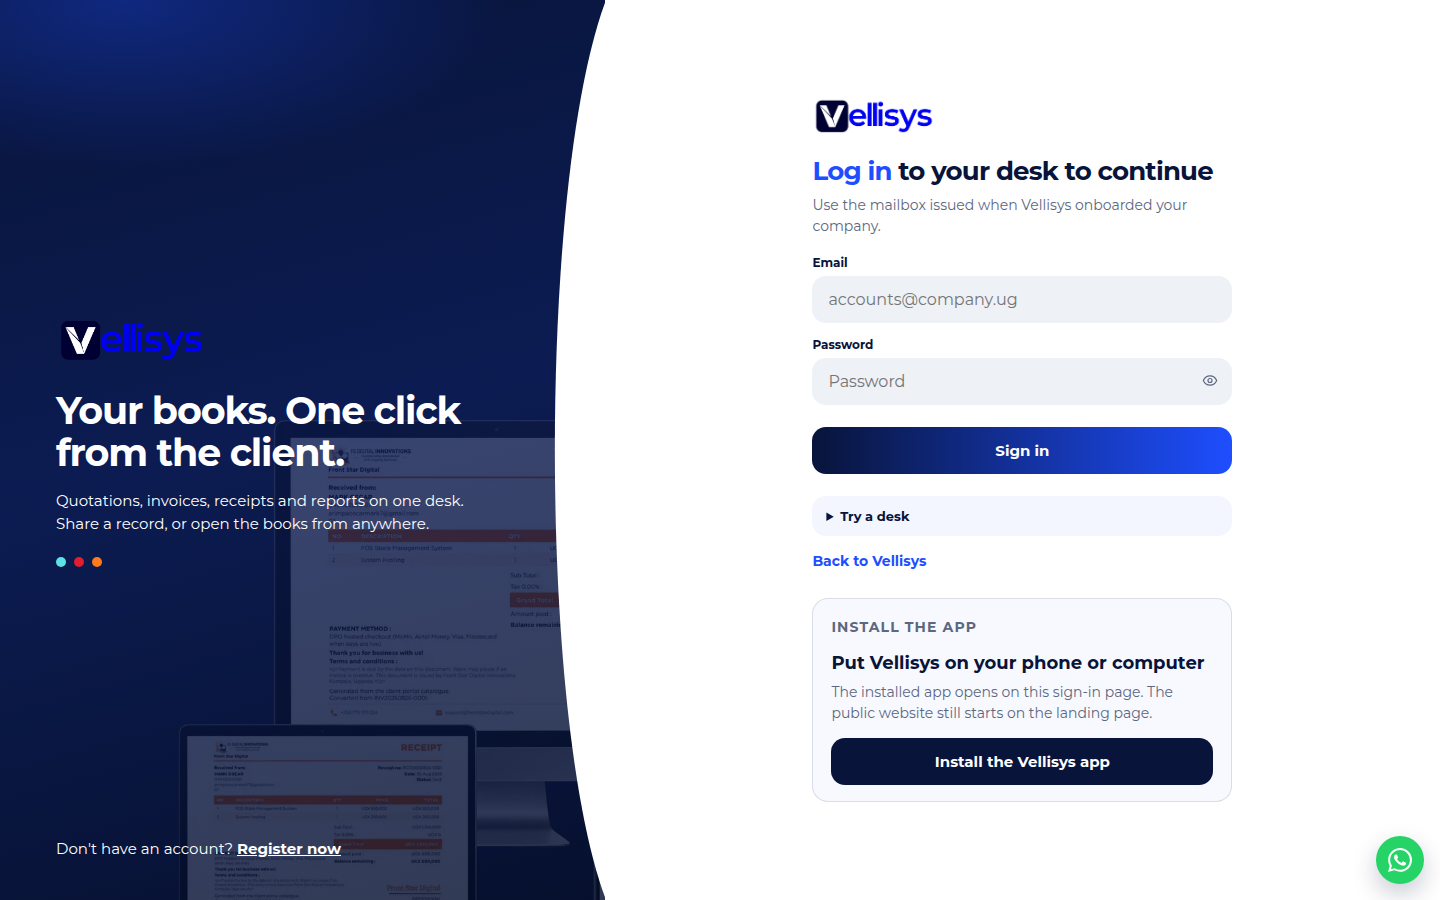
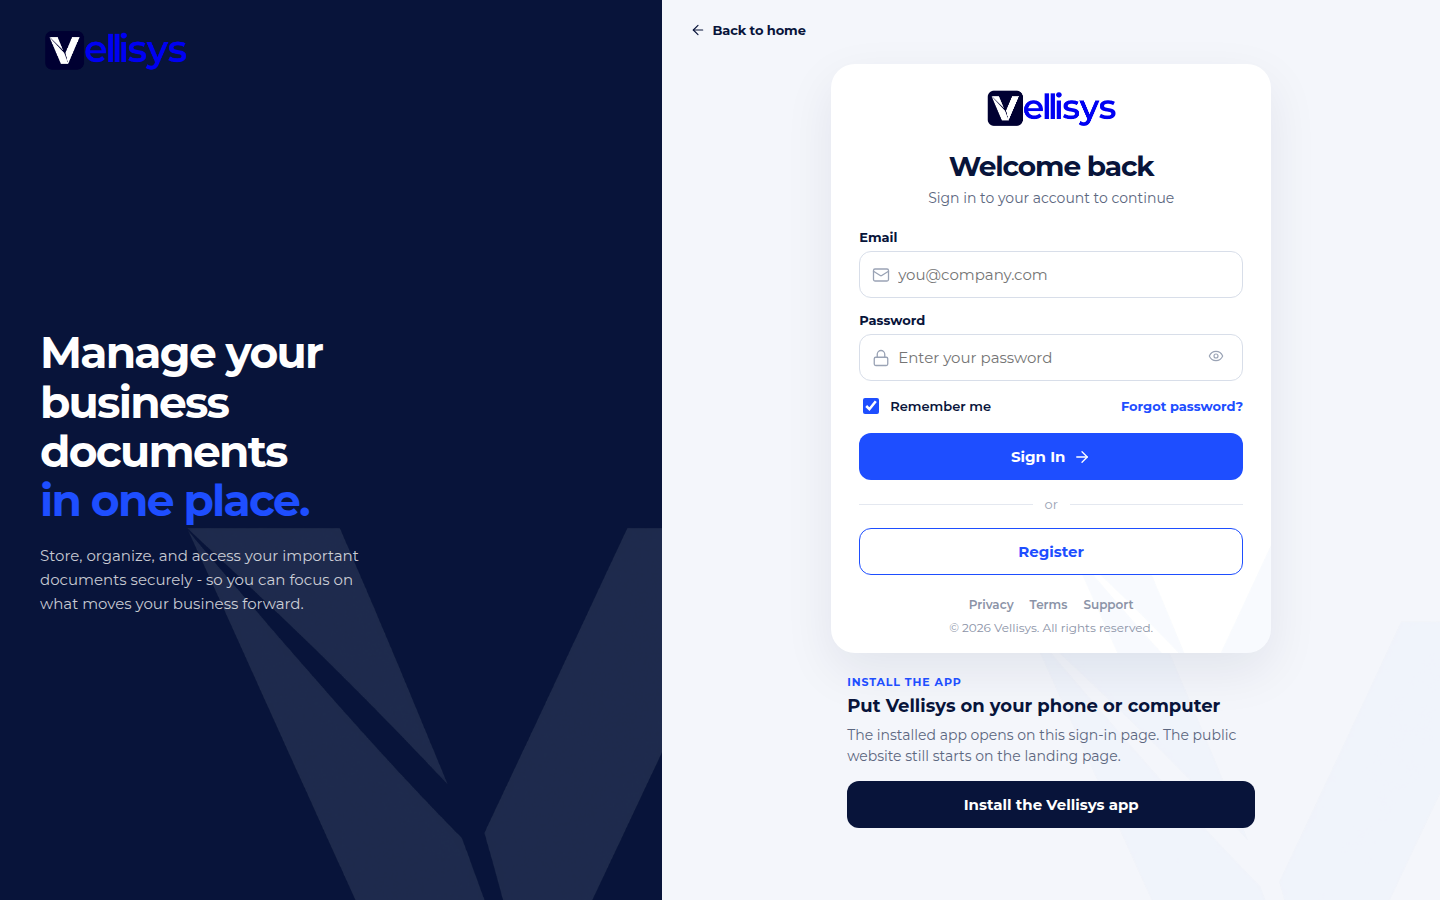
Update Lesson 22 with the current login and install steps.
Show the live Sign in page and cover installing Vellisys on a phone and on a computer.

diff --git a/tutorials.php b/tutorials.php
@@ -291,15 +291,16 @@ $lessons = [
     ],
     [
         'id' => 'install',
-        'icon' => 'image',
+        'icon' => 'download',
         'title' => 'Install the app',
         'file' => 'install.png',
-        'alt' => 'Sign-in page with install the Vellisys app',
-        'lead' => 'Put Vellisys on the phone or computer from the sign-in page. The installed app opens on login, not the public website.',
+        'alt' => 'Current Vellisys sign-in page, where you install the app on a phone or a computer',
+        'lead' => 'Put Vellisys on a phone or a computer from the Sign in page. The installed app opens on login, not the public website.',
         'points' => [
-            'On the login page, use Install the Vellisys app when the browser offers it.',
-            'On iPhone, share the page and choose Add to Home Screen. The icon opens straight on sign-in.',
-            'The public landing page stays on the website. Books stay behind the login.',
+            'Open Sign in in the browser and stay on that page while you install. The app should start there. The public landing page stays on the website. Books stay behind the login.',
+            'On a computer in Chrome or Edge, use the install icon in the address bar, or Install app in the browser menu. On a Mac in Safari: File, then Add to Dock.',
+            'On Android, use Install app or Add to Home screen in the browser menu. On iPhone or iPad, open Sign in in Safari, tap Share, then Add to Home Screen.',
+            'Tap the new Vellisys icon. You land on Sign in. From there you open the desk the same way as in the browser.',
         ],
     ],
 ];
